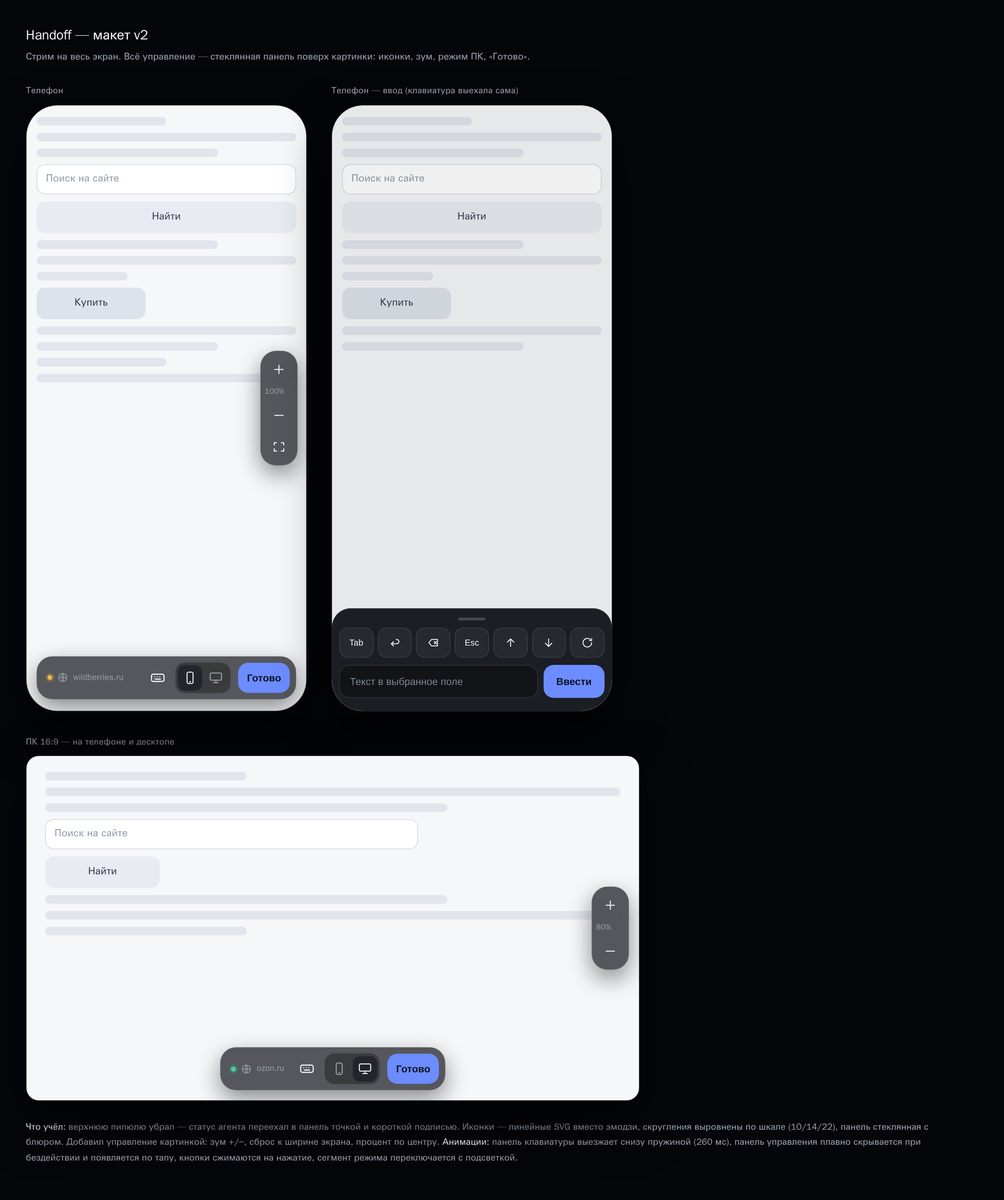
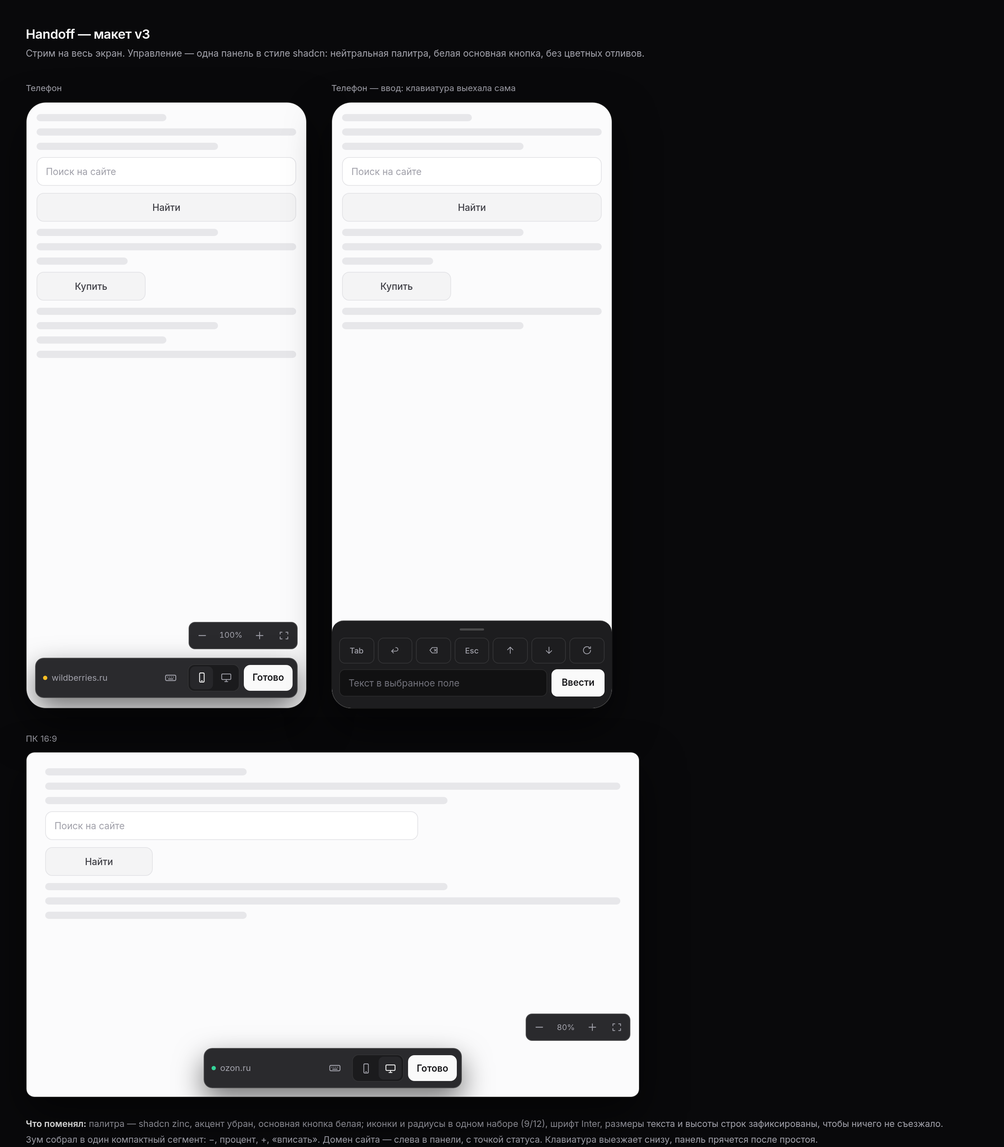
design(handoff): v3 mockup — shadcn-style neutral palette, single zoom control

diff --git a/design/handoff-mockup/index.html b/design/handoff-mockup/index.html
@@ -3,95 +3,97 @@
 <head>
 <meta charset="utf-8">
 <meta name="viewport" content="width=device-width,initial-scale=1">
-<title>SLAVA handoff — макет v2</title>
+<title>SLAVA handoff — макет v3</title>
+<link rel="preconnect" href="https://fonts.googleapis.com">
+<link rel="preconnect" href="https://fonts.gstatic.com" crossorigin>
+<link href="https://fonts.googleapis.com/css2?family=Inter:wght@400;500;600&display=swap" rel="stylesheet">
 <style>
   :root{
     color-scheme: dark;
-    --bg:#0a0b0d; --stage:#101215; --glass:rgba(22,25,30,.72); --glass-2:rgba(30,34,41,.86);
-    --text:#eef1f5; --muted:#98a1ad; --line:rgba(255,255,255,.09); --accent:#6c8cff; --accent-ink:#0a1122;
-    --ok:#43d19e; --warn:#f0b43f;
-    --r-lg:22px; --r-md:14px; --r-sm:10px;
-    --shadow:0 12px 32px rgba(0,0,0,.45);
+    /* shadcn zinc, без акцентного синего */
+    --background:#09090b; --foreground:#fafafa; --card:#18181b; --card-2:#27272a;
+    --muted:#a1a1aa; --border:rgba(250,250,250,.10); --border-strong:rgba(250,250,250,.16);
+    --primary:#fafafa; --primary-foreground:#18181b;
+    --radius:12px;
   }
   *{box-sizing:border-box}
-  body{margin:0;background:#05060a;color:var(--text);
-    font:15px/1.45 -apple-system,BlinkMacSystemFont,"Segoe UI",ui-sans-serif,system-ui,"Helvetica Neue",Arial,sans-serif;
-    padding:36px; -webkit-font-smoothing:antialiased}
-  h1{font-size:19px;font-weight:600;letter-spacing:-.01em;margin:0 0 6px}
-  .lead{color:var(--muted);font-size:13px;margin:0 0 30px}
+  html,body{height:100%}
+  body{margin:0;background:var(--background);color:var(--foreground);
+    font-family:Inter,-apple-system,BlinkMacSystemFont,"Segoe UI",system-ui,sans-serif;
+    font-feature-settings:"cv11","ss01"; -webkit-font-smoothing:antialiased; padding:36px}
+  h1{font-size:18px;line-height:1.3;font-weight:600;letter-spacing:-.015em;margin:0 0 6px}
+  .lead{color:var(--muted);font-size:13px;line-height:1.5;margin:0 0 30px}
   .frames{display:flex;gap:34px;align-items:flex-start;flex-wrap:wrap}
-  .cap{font-size:12px;color:var(--muted);margin:0 0 10px;letter-spacing:.01em}
+  .cap{font-size:12px;line-height:1.4;color:var(--muted);margin:0 0 10px}
 
-  .phone{width:392px;height:846px;border-radius:44px;background:var(--bg);position:relative;overflow:hidden;
-    border:1px solid rgba(255,255,255,.08);box-shadow:0 30px 70px rgba(0,0,0,.6)}
-  .stage{position:absolute;inset:0;overflow:hidden}
-  .page{position:absolute;inset:0;background:#f6f7f9;color:#14171c;padding:16px 14px;display:flex;flex-direction:column;gap:10px}
-  .page.dim{filter:brightness(.94)}
-  .bar{height:12px;border-radius:6px;background:#e2e6ec;flex:0 0 auto}
-  .bar.w70{width:70%}.bar.w50{width:50%}.bar.w35{width:35%}
-  .field{height:42px;border:1px solid #d3d9e1;border-radius:12px;background:#fff;display:flex;align-items:center;padding:0 12px;color:#939ca8;font-size:14px}
-  .cta{height:44px;border-radius:12px;background:#e8ecf2;display:flex;align-items:center;justify-content:center;color:#39414d;font-size:14px;font-weight:500}
+  .phone{width:392px;height:846px;border-radius:28px;background:#000;position:relative;overflow:hidden;
+    border:1px solid var(--border);box-shadow:0 24px 60px rgba(0,0,0,.55)}
+  .stage{position:absolute;inset:0}
+  .page{position:absolute;inset:0;background:#fbfbfc;color:#18181b;padding:16px 14px;display:flex;flex-direction:column;gap:10px;overflow:hidden}
+  .page .bar{height:10px;border-radius:5px;background:#e7e7ea;flex:0 0 auto}
+  .page .bar.w70{width:70%}.page .bar.w50{width:50%}.page .bar.w35{width:35%}
+  .page .field{height:40px;border:1px solid #e4e4e7;border-radius:10px;background:#fff;display:flex;align-items:center;padding:0 12px;color:#a1a1aa;font-size:13px}
+  .page .cta{height:40px;border-radius:10px;background:#f4f4f5;border:1px solid #e4e4e7;display:flex;align-items:center;justify-content:center;color:#3f3f46;font-size:13px;font-weight:500}
 
-  /* glass dock */
-  .dock{position:absolute;left:14px;right:14px;bottom:16px;height:60px;display:flex;align-items:center;gap:4px;padding:0 8px;overflow:hidden;
-    background:var(--glass);backdrop-filter:blur(18px) saturate(140%);-webkit-backdrop-filter:blur(18px) saturate(140%);
-    border:1px solid var(--line);border-radius:var(--r-lg);box-shadow:var(--shadow)}
-  .icon{width:40px;height:40px;border-radius:var(--r-md);border:0;background:transparent;color:var(--text);
-    display:grid;place-items:center;padding:0;transition:background .18s ease, transform .12s ease}
-  .icon:hover{background:rgba(255,255,255,.07)}
-  .icon:active{transform:scale(.94)}
-  .icon svg{width:22px;height:22px;stroke:currentColor;stroke-width:1.7;fill:none;stroke-linecap:round;stroke-linejoin:round}
-    .site{display:flex;align-items:center;gap:7px;min-width:0;flex:1 1 auto;padding:0 8px 0 6px;color:var(--muted);font-size:12px}
-  .site .host{overflow:hidden;text-overflow:ellipsis;white-space:nowrap;max-width:100%}
-  .site svg{width:15px;height:15px;stroke:var(--muted);stroke-width:1.6;fill:none;flex:0 0 auto}
-  .dot{width:7px;height:7px;border-radius:50%;background:var(--warn);box-shadow:0 0 0 3px rgba(240,180,63,.16)}
-  .seg{display:flex;margin-left:auto;background:rgba(0,0,0,.32);border:1px solid var(--line);border-radius:var(--r-md);padding:3px;gap:2px}
-  .seg button{border:0;background:transparent;color:var(--muted);height:36px;width:34px;display:grid;place-items:center;border-radius:10px;transition:background .18s ease,color .18s ease}
-  .seg button.on{background:var(--glass-2);color:var(--text);box-shadow:0 1px 0 rgba(255,255,255,.06) inset}
-  .seg svg{width:20px;height:20px;stroke:currentColor;stroke-width:1.7;fill:none;stroke-linecap:round;stroke-linejoin:round}
-  .done{height:42px;padding:0 12px;font-size:13px;white-space:nowrap;border:0;border-radius:var(--r-md);background:var(--accent);color:var(--accent-ink);font-weight:600;font-size:14px;margin-left:6px;transition:filter .18s ease, transform .12s ease}
-  .done:active{transform:scale(.97);filter:brightness(.95)}
+  /* dock — shadcn button group */
+  .dock{position:absolute;left:12px;right:12px;bottom:14px;height:56px;display:flex;align-items:center;gap:6px;padding:0 6px;
+    background:rgba(24,24,27,.92);backdrop-filter:blur(12px);-webkit-backdrop-filter:blur(12px);
+    border:1px solid var(--border-strong);border-radius:var(--radius);box-shadow:0 16px 40px rgba(0,0,0,.55)}
+  .site{display:flex;align-items:center;gap:6px;min-width:0;flex:1 1 auto;padding:0 4px;color:var(--muted);font-size:12px;line-height:1}
+  .site .host{overflow:hidden;text-overflow:ellipsis;white-space:nowrap;min-width:0}
+  .dot{width:6px;height:6px;border-radius:50%;background:#fbbf24;flex:0 0 auto}
+  .dot.live{background:#34d399}
+  .icon{width:36px;height:36px;flex:0 0 auto;border-radius:9px;border:0;background:transparent;color:var(--muted);
+    display:grid;place-items:center;padding:0;transition:background-color .15s ease,color .15s ease,transform .1s ease}
+  .icon:hover{background:var(--card-2);color:var(--foreground)}
+  .icon:active{transform:scale(.96)}
+  .icon svg{width:18px;height:18px;stroke:currentColor;stroke-width:1.6;fill:none;stroke-linecap:round;stroke-linejoin:round}
+  .seg{display:flex;flex:0 0 auto;background:rgba(0,0,0,.35);border:1px solid var(--border);border-radius:9px;padding:2px;gap:2px}
+  .seg button{width:32px;height:32px;border:0;border-radius:7px;background:transparent;color:var(--muted);display:grid;place-items:center;padding:0;transition:background-color .15s ease,color .15s ease}
+  .seg button.on{background:var(--card-2);color:var(--foreground)}
+  .seg svg{width:17px;height:17px;stroke:currentColor;stroke-width:1.6;fill:none;stroke-linecap:round;stroke-linejoin:round}
+  .done{height:36px;flex:0 0 auto;padding:0 12px;border:0;border-radius:9px;background:var(--primary);color:var(--primary-foreground);
+    font-family:inherit;font-size:13px;font-weight:600;line-height:1;transition:opacity .15s ease,transform .1s ease}
+  .done:active{transform:scale(.97);opacity:.92}
 
-  /* zoom cluster */
-  .zoom{position:absolute;right:12px;top:50%;transform:translateY(-50%);display:flex;flex-direction:column;gap:4px;padding:5px;
-    background:var(--glass);backdrop-filter:blur(18px);border:1px solid var(--line);border-radius:var(--r-lg);box-shadow:var(--shadow);
-    transition:opacity .2s ease}
-  .zoom button{width:40px;height:40px;border-radius:12px;border:0;background:transparent;color:var(--text);font-size:13px;font-weight:600;
-    display:grid;place-items:center}
-  .zoom button:hover{background:rgba(255,255,255,.07)}
-  .zoom svg{width:20px;height:20px;stroke:currentColor;stroke-width:1.7;fill:none;stroke-linecap:round;stroke-linejoin:round}
-  .zoom .pct{font-size:11px;color:var(--muted);font-weight:500}
+  /* zoom — один компактный сегмент */
+  .zoom{position:absolute;right:12px;bottom:82px;display:flex;align-items:center;gap:2px;padding:2px;
+    background:rgba(24,24,27,.92);backdrop-filter:blur(12px);border:1px solid var(--border-strong);border-radius:9px}
+  .zoom button{width:32px;height:32px;border:0;border-radius:7px;background:transparent;color:var(--muted);display:grid;place-items:center;padding:0}
+  .zoom button:hover{background:var(--card-2);color:var(--foreground)}
+  .zoom svg{width:16px;height:16px;stroke:currentColor;stroke-width:1.7;fill:none;stroke-linecap:round;stroke-linejoin:round}
+  .zoom .pct{font-size:11px;line-height:1;color:var(--muted);padding:0 6px;font-variant-numeric:tabular-nums;min-width:38px;text-align:center}
 
   /* keyboard sheet */
-  .sheet{position:absolute;left:0;right:0;bottom:0;background:rgba(19,22,27,.96);backdrop-filter:blur(22px);
-    border-top:1px solid var(--line);border-radius:26px 26px 0 0;padding:10px 10px 18px;transform:translateY(0);
-    transition:transform .26s cubic-bezier(.2,.8,.2,1)}
-  .sheet.hidden{transform:translateY(105%)}
-  .grab{width:38px;height:4px;border-radius:2px;background:rgba(255,255,255,.18);margin:2px auto 10px}
-  .keys{display:flex;gap:6px;margin-bottom:10px}
-  .key{flex:1;height:42px;border-radius:12px;border:1px solid var(--line);background:rgba(255,255,255,.05);color:var(--text);
-    font-size:12px;display:grid;place-items:center}
-  .key svg{width:18px;height:18px;stroke:currentColor;stroke-width:1.7;fill:none;stroke-linecap:round;stroke-linejoin:round}
-  .reply{display:flex;gap:8px}
-  .reply input{flex:1;height:46px;border-radius:14px;border:1px solid rgba(255,255,255,.12);background:rgba(0,0,0,.35);
-    color:var(--text);padding:0 14px;font-size:14px}
-  .reply input::placeholder{color:#7b8593}
-  .reply button{height:46px;padding:0 18px;border-radius:14px;border:0;background:var(--accent);color:var(--accent-ink);font-weight:600;font-size:14px}
+  .sheet{position:absolute;left:0;right:0;bottom:0;background:rgba(24,24,27,.98);backdrop-filter:blur(16px);
+    border-top:1px solid var(--border-strong);border-radius:16px 16px 0 0;padding:8px 10px 16px;
+    transform:translateY(0);transition:transform .28s cubic-bezier(.32,.72,0,1)}
+  .sheet.hidden{transform:translateY(104%)}
+  .grab{width:34px;height:3px;border-radius:2px;background:rgba(250,250,250,.20);margin:2px auto 10px}
+  .keys{display:flex;gap:5px;margin-bottom:8px}
+  .key{flex:1 1 0;min-width:0;height:36px;border-radius:8px;border:1px solid var(--border);background:transparent;
+    color:var(--muted);font-family:inherit;font-size:11px;font-weight:500;display:grid;place-items:center}
+  .key:hover{background:var(--card-2);color:var(--foreground)}
+  .key svg{width:15px;height:15px;stroke:currentColor;stroke-width:1.7;fill:none;stroke-linecap:round;stroke-linejoin:round}
+  .reply{display:flex;gap:6px}
+  .reply input{flex:1 1 auto;min-width:0;height:38px;border-radius:8px;border:1px solid var(--border);background:rgba(0,0,0,.4);
+    color:var(--foreground);padding:0 12px;font-family:inherit;font-size:13px;line-height:1}
+  .reply input::placeholder{color:#71717a}
+  .reply button{flex:0 0 auto;height:38px;padding:0 14px;border:0;border-radius:8px;background:var(--primary);color:var(--primary-foreground);
+    font-family:inherit;font-size:13px;font-weight:600;line-height:1}
 
-  /* desktop */
-  .desktop{width:856px;height:482px;border-radius:18px;background:var(--bg);position:relative;overflow:hidden;
-    border:1px solid rgba(255,255,255,.08);box-shadow:0 30px 70px rgba(0,0,0,.6)}
-  .desktop .page{border-radius:0}
-  .desktop .dock{left:50%;right:auto;transform:translateX(-50%);bottom:14px}
-  .desktop .zoom{right:14px}
+  /* desktop 16:9 */
+  .desktop{width:856px;height:482px;border-radius:12px;background:#000;position:relative;overflow:hidden;border:1px solid var(--border);box-shadow:0 24px 60px rgba(0,0,0,.55)}
+  .desktop .dock{left:50%;right:auto;transform:translateX(-50%);bottom:12px;width:min(360px,calc(100% - 24px))}
+  .desktop .zoom{bottom:78px}
 
   .notes{max-width:1280px;margin-top:26px;color:var(--muted);font-size:12.5px;line-height:1.7}
-  .notes b{color:var(--text);font-weight:600}
+  .notes b{color:var(--foreground);font-weight:600}
 </style>
 </head>
 <body>
-  <h1>Handoff — макет v2</h1>
-  <p class="lead">Стрим на весь экран. Всё управление — стеклянная панель поверх картинки: иконки, зум, режим ПК, «Готово».</p>
+  <h1>Handoff — макет v3</h1>
+  <p class="lead">Стрим на весь экран. Управление — одна панель в стиле shadcn: нейтральная палитра, белая основная кнопка, без цветных отливов.</p>
 
   <div class="frames">
     <div>
@@ -103,15 +105,15 @@
             <div class="field">Поиск на сайте</div>
             <div class="cta">Найти</div>
             <div class="bar w70"></div><div class="bar"></div><div class="bar w35"></div>
-            <div class="cta" style="width:42%;background:#dde3ea">Купить</div>
+            <div class="cta" style="width:42%">Купить</div>
             <div class="bar"></div><div class="bar w70"></div><div class="bar w50"></div><div class="bar"></div>
           </div>
         </div>
         <div class="zoom">
-          <button aria-label="Приблизить"><svg viewBox="0 0 24 24"><path d="M12 5v14M5 12h14"/></svg></button>
-          <span class="pct">100%</span>
           <button aria-label="Отдалить"><svg viewBox="0 0 24 24"><path d="M5 12h14"/></svg></button>
-          <button aria-label="По ширине экрана"><svg viewBox="0 0 24 24"><path d="M4 9V5h4M20 9V5h-4M4 15v4h4M20 15v4h-4"/></svg></button>
+          <span class="pct">100%</span>
+          <button aria-label="Приблизить"><svg viewBox="0 0 24 24"><path d="M12 5v14M5 12h14"/></svg></button>
+          <button aria-label="Вписать в экран"><svg viewBox="0 0 24 24"><path d="M4 9V5h4M20 9V5h-4M4 15v4h4M20 15v4h-4"/></svg></button>
         </div>
         <div class="sheet hidden" id="sheet-a">
           <div class="grab"></div>
@@ -124,21 +126,14 @@
             <button class="key"><svg viewBox="0 0 24 24"><path d="M12 5v14M6 13l6 6 6-6"/></svg></button>
             <button class="key"><svg viewBox="0 0 24 24"><path d="M20 12a8 8 0 1 1-2.3-5.6"/><path d="M20 4v4h-4"/></svg></button>
           </div>
-          <div class="reply">
-            <input placeholder="Текст в выбранное поле">
-            <button>Ввести</button>
-          </div>
+          <div class="reply"><input placeholder="Текст в выбранное поле"><button>Ввести</button></div>
         </div>
         <div class="dock">
-          <div class="site" title="агент ждёт">
-            <span class="dot"></span>
-            <svg viewBox="0 0 24 24"><circle cx="12" cy="12" r="9"/><path d="M3 12h18M12 3c2.5 2.6 2.5 15.4 0 18M12 3c-2.5 2.6-2.5 15.4 0 18"/></svg>
-            <span class="host">wildberries.ru</span>
-          </div>
-          <button class="icon" data-to="sheet-a" aria-label="Клавиатура"><svg viewBox="0 0 24 24"><rect x="2.5" y="6.5" width="19" height="11" rx="2.5"/><path d="M7 10.5h.01M11 10.5h.01M15 10.5h.01M8 14h8"/></svg></button>
+          <div class="site"><span class="dot"></span><span class="host">wildberries.ru</span></div>
+          <button class="icon" data-to="sheet-a" aria-label="Клавиатура"><svg viewBox="0 0 24 24"><rect x="2.5" y="7" width="19" height="10" rx="2"/><path d="M6.5 10.5h.01M10 10.5h.01M13.5 10.5h.01M17 10.5h.01M8 14h8"/></svg></button>
           <div class="seg">
-            <button class="on" aria-label="Режим телефона"><svg viewBox="0 0 24 24"><rect x="7" y="2.5" width="10" height="19" rx="2.5"/><path d="M11 18.5h2"/></svg></button>
-            <button aria-label="Режим ПК 16:9"><svg viewBox="0 0 24 24"><rect x="2.5" y="4" width="19" height="12" rx="2"/><path d="M8 20h8M12 16v4"/></svg></button>
+            <button class="on" aria-label="Режим телефона"><svg viewBox="0 0 24 24"><rect x="7.5" y="3" width="9" height="18" rx="2"/><path d="M11 18.5h2"/></svg></button>
+            <button aria-label="Режим ПК 16:9"><svg viewBox="0 0 24 24"><rect x="3" y="5" width="18" height="11" rx="1.8"/><path d="M9 20h6M12 16v4"/></svg></button>
           </div>
           <button class="done">Готово</button>
         </div>
@@ -146,15 +141,15 @@
     </div>
 
     <div>
-      <p class="cap">Телефон — ввод (клавиатура выехала сама)</p>
+      <p class="cap">Телефон — ввод: клавиатура выехала сама</p>
       <div class="phone">
         <div class="stage">
-          <div class="page dim">
+          <div class="page">
             <div class="bar w50"></div><div class="bar"></div><div class="bar w70"></div>
             <div class="field">Поиск на сайте</div>
             <div class="cta">Найти</div>
             <div class="bar w70"></div><div class="bar"></div><div class="bar w35"></div>
-            <div class="cta" style="width:42%;background:#dde3ea">Купить</div>
+            <div class="cta" style="width:42%">Купить</div>
             <div class="bar"></div><div class="bar w70"></div>
           </div>
         </div>
@@ -169,40 +164,34 @@
             <button class="key"><svg viewBox="0 0 24 24"><path d="M12 5v14M6 13l6 6 6-6"/></svg></button>
             <button class="key"><svg viewBox="0 0 24 24"><path d="M20 12a8 8 0 1 1-2.3-5.6"/><path d="M20 4v4h-4"/></svg></button>
           </div>
-          <div class="reply">
-            <input placeholder="Текст в выбранное поле">
-            <button>Ввести</button>
-          </div>
+          <div class="reply"><input placeholder="Текст в выбранное поле"><button>Ввести</button></div>
         </div>
       </div>
     </div>
 
     <div>
-      <p class="cap">ПК 16:9 — на телефоне и десктопе</p>
+      <p class="cap">ПК 16:9</p>
       <div class="desktop">
         <div class="stage">
           <div class="page" style="padding:22px 26px">
             <div class="bar w35"></div><div class="bar"></div><div class="bar w70"></div>
             <div class="field" style="max-width:520px">Поиск на сайте</div>
-            <div class="cta" style="width:160px">Найти</div>
+            <div class="cta" style="width:150px">Найти</div>
             <div class="bar w70"></div><div class="bar"></div><div class="bar w35"></div>
           </div>
         </div>
         <div class="zoom">
-          <button aria-label="Приблизить"><svg viewBox="0 0 24 24"><path d="M12 5v14M5 12h14"/></svg></button>
-          <span class="pct">80%</span>
           <button aria-label="Отдалить"><svg viewBox="0 0 24 24"><path d="M5 12h14"/></svg></button>
+          <span class="pct">80%</span>
+          <button aria-label="Приблизить"><svg viewBox="0 0 24 24"><path d="M12 5v14M5 12h14"/></svg></button>
+          <button aria-label="Вписать в экран"><svg viewBox="0 0 24 24"><path d="M4 9V5h4M20 9V5h-4M4 15v4h4M20 15v4h-4"/></svg></button>
         </div>
         <div class="dock">
-          <div class="site" title="агент работает">
-            <span class="dot" style="background:var(--ok);box-shadow:0 0 0 3px rgba(67,209,158,.16)"></span>
-            <svg viewBox="0 0 24 24"><circle cx="12" cy="12" r="9"/><path d="M3 12h18M12 3c2.5 2.6 2.5 15.4 0 18M12 3c-2.5 2.6-2.5 15.4 0 18"/></svg>
-            <span class="host">ozon.ru</span>
-          </div>
-          <button class="icon" aria-label="Клавиатура"><svg viewBox="0 0 24 24"><rect x="2.5" y="6.5" width="19" height="11" rx="2.5"/><path d="M7 10.5h.01M11 10.5h.01M15 10.5h.01M8 14h8"/></svg></button>
+          <div class="site"><span class="dot live"></span><span class="host">ozon.ru</span></div>
+          <button class="icon" aria-label="Клавиатура"><svg viewBox="0 0 24 24"><rect x="2.5" y="7" width="19" height="10" rx="2"/><path d="M6.5 10.5h.01M10 10.5h.01M13.5 10.5h.01M17 10.5h.01M8 14h8"/></svg></button>
           <div class="seg">
-            <button aria-label="Режим телефона"><svg viewBox="0 0 24 24"><rect x="7" y="2.5" width="10" height="19" rx="2.5"/><path d="M11 18.5h2"/></svg></button>
-            <button class="on" aria-label="Режим ПК 16:9"><svg viewBox="0 0 24 24"><rect x="2.5" y="4" width="19" height="12" rx="2"/><path d="M8 20h8M12 16v4"/></svg></button>
+            <button aria-label="Режим телефона"><svg viewBox="0 0 24 24"><rect x="7.5" y="3" width="9" height="18" rx="2"/><path d="M11 18.5h2"/></svg></button>
+            <button class="on" aria-label="Режим ПК 16:9"><svg viewBox="0 0 24 24"><rect x="3" y="5" width="18" height="11" rx="1.8"/><path d="M9 20h6M12 16v4"/></svg></button>
           </div>
           <button class="done">Готово</button>
         </div>
@@ -211,12 +200,11 @@
   </div>
 
   <p class="notes">
-    <b>Что учёл:</b> верхнюю пилюлю убрал — статус агента переехал в панель точкой и короткой подписью. Иконки — линейные SVG вместо эмодзи, скругления выровнены по шкале (10/14/22), панель стеклянная с блюром.
-    Добавил управление картинкой: зум +/−, сброс к ширине экрана, процент по центру.
-    <b>Анимации:</b> панель клавиатуры выезжает снизу пружиной (260 мс), панель управления плавно скрывается при бездействии и появляется по тапу, кнопки сжимаются на нажатие, сегмент режима переключается с подсветкой.
+    <b>Что поменял:</b> палитра — shadcn zinc, акцент убран, основная кнопка белая; иконки и радиусы в одном наборе (9/12), шрифт Inter, размеры текста и высоты строк зафиксированы, чтобы ничего не съезжало.
+    Зум собрал в один компактный сегмент: −, процент, +, «вписать». Домен сайта — слева в панели, с точкой статуса. Клавиатура выезжает снизу, панель прячется после простоя.
   </p>
+
   <script>
-    // Демо-поведение: сегмент режима, выезд клавиатуры, авто-скрытие панели.
     document.querySelectorAll(".seg").forEach((seg) => {
       seg.addEventListener("click", (event) => {
         const button = event.target.closest("button");
@@ -225,22 +213,8 @@
       });
     });
     document.querySelectorAll("[data-to]").forEach((button) => {
-      button.addEventListener("click", () => {
-        const sheet = document.getElementById(button.dataset.to);
-        if (sheet) sheet.classList.toggle("hidden");
-      });
+      button.addEventListener("click", () => document.getElementById(button.dataset.to)?.classList.toggle("hidden"));
     });
-    const docks = document.querySelectorAll(".phone .dock");
-    let hideTimer;
-    const scheduleHide = () => {
-      clearTimeout(hideTimer);
-      hideTimer = setTimeout(() => docks.forEach((dock) => { dock.style.opacity = "0"; dock.style.transform = "translateY(12px)"; }), 3000);
-    };
-    docks.forEach((dock) => {
-      dock.style.transition = "opacity .25s ease, transform .25s ease";
-      dock.addEventListener("pointerdown", () => { docks.forEach((item) => { item.style.opacity = "1"; item.style.transform = "none"; }); scheduleHide(); });
-    });
-    scheduleHide();
   </script>
 </body>
 </html>
